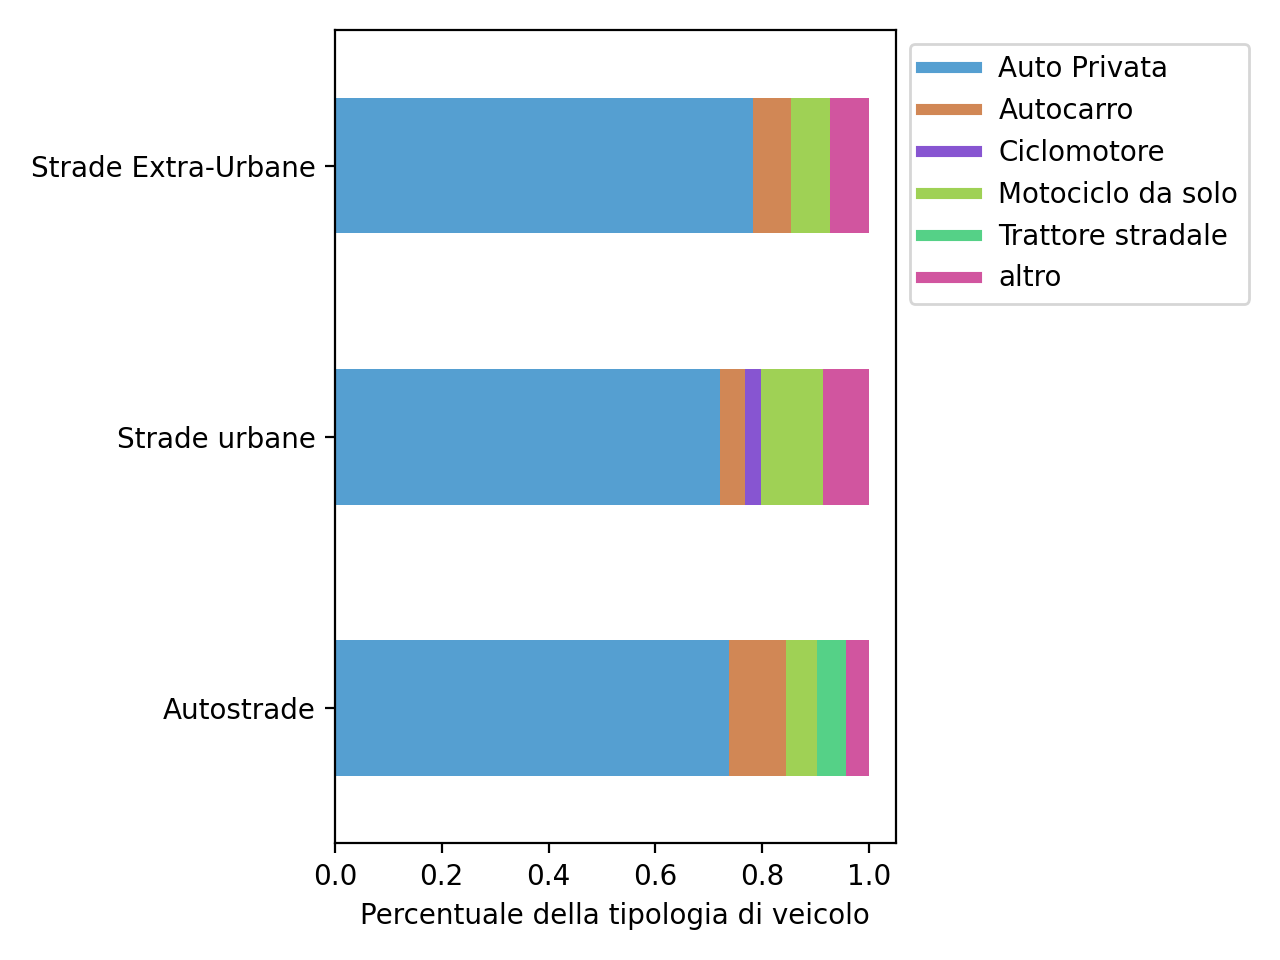
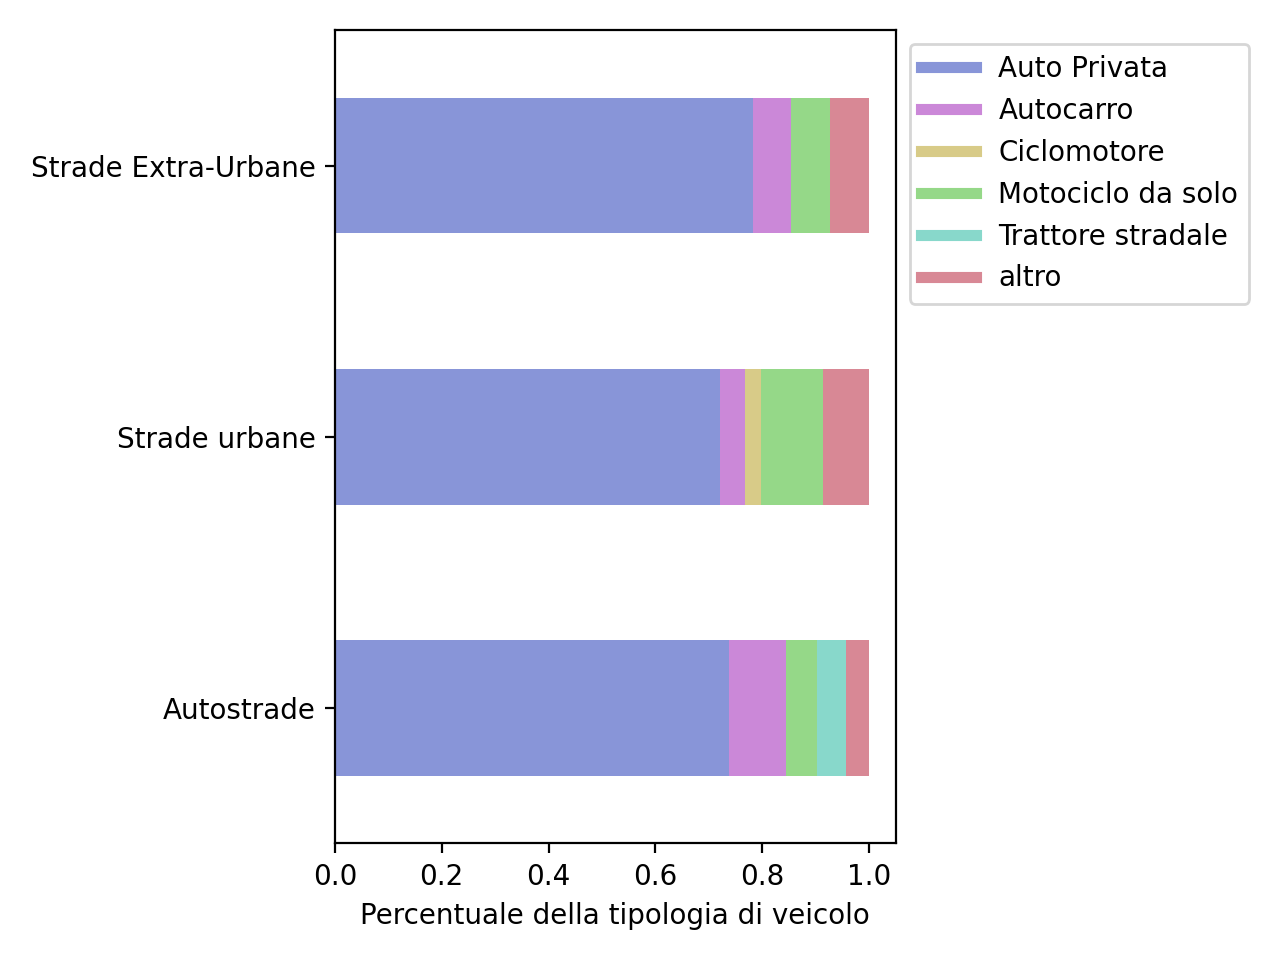
modifiche colori

diff --git a/src/incidenti/incidenti_senza_coords/tipo_veicoli/differenza_strade.py b/src/incidenti/incidenti_senza_coords/tipo_veicoli/differenza_strade.py
@@ -23,26 +23,33 @@ uniti = pd.DataFrame([
 uniti[uniti < 0.02] = 0.0
 uniti['altro'] = 1 - uniti.transpose().sum()
 
-autoc= ['#8755d1']*15 
-suc = ['#8755d1']*15 
-seuc = ['#8755d1']*15
-autoc[0] =  '#559fd1'
-suc[0] =    '#559fd1'
-seuc[0] =   '#559fd1'
-autoc[4] =  '#d18755'
-suc[4] =    '#d18755'
-seuc[4] =   '#d18755'
-autoc[9] =  '#9fd155'
-suc[9] =    '#9fd155'
-seuc[9] =   '#9fd155'
-autoc[14] = '#d1559f'
-suc[14] =   '#d1559f'
-seuc[14] =  '#d1559f'
-autoc[11] = '#55d187'
+# Colorazione del grafico in modo che sia consistente
+c1 = '#d8cb88'
+c2 = '#8895d8'
+c3 = '#cb88d8'
+c4 = '#95d888'
+c5 = '#d88895'
+c6 = '#88d8cb'
+
+autoc= [c1]*15 
+suc = [c1]*15 
+seuc = [c1]*15
+autoc[0] =  c2
+suc[0] =    c2
+seuc[0] =   c2
+autoc[4] =  c3
+suc[4] =    c3
+seuc[4] =   c3
+autoc[9] =  c4
+suc[9] =    c4
+seuc[9] =   c4
+autoc[14] = c5
+suc[14] =   c5
+seuc[14] =  c5
+autoc[11] = c6
 
 color_ls = autoc+suc+seuc
-print(uniti.transpose())
-colors = ['#559fd1', '#d18755', '#8755d1', '#9fd155', '#55d187', '#d1559f']
+colors = [c2, c3, c1, c4, c6, c5]
 labels =['Auto Privata', 'Autocarro', 'Ciclomotore', 'Motociclo da solo', 'Trattore stradale', 'altro']
 
 from matplotlib.lines import Line2D
